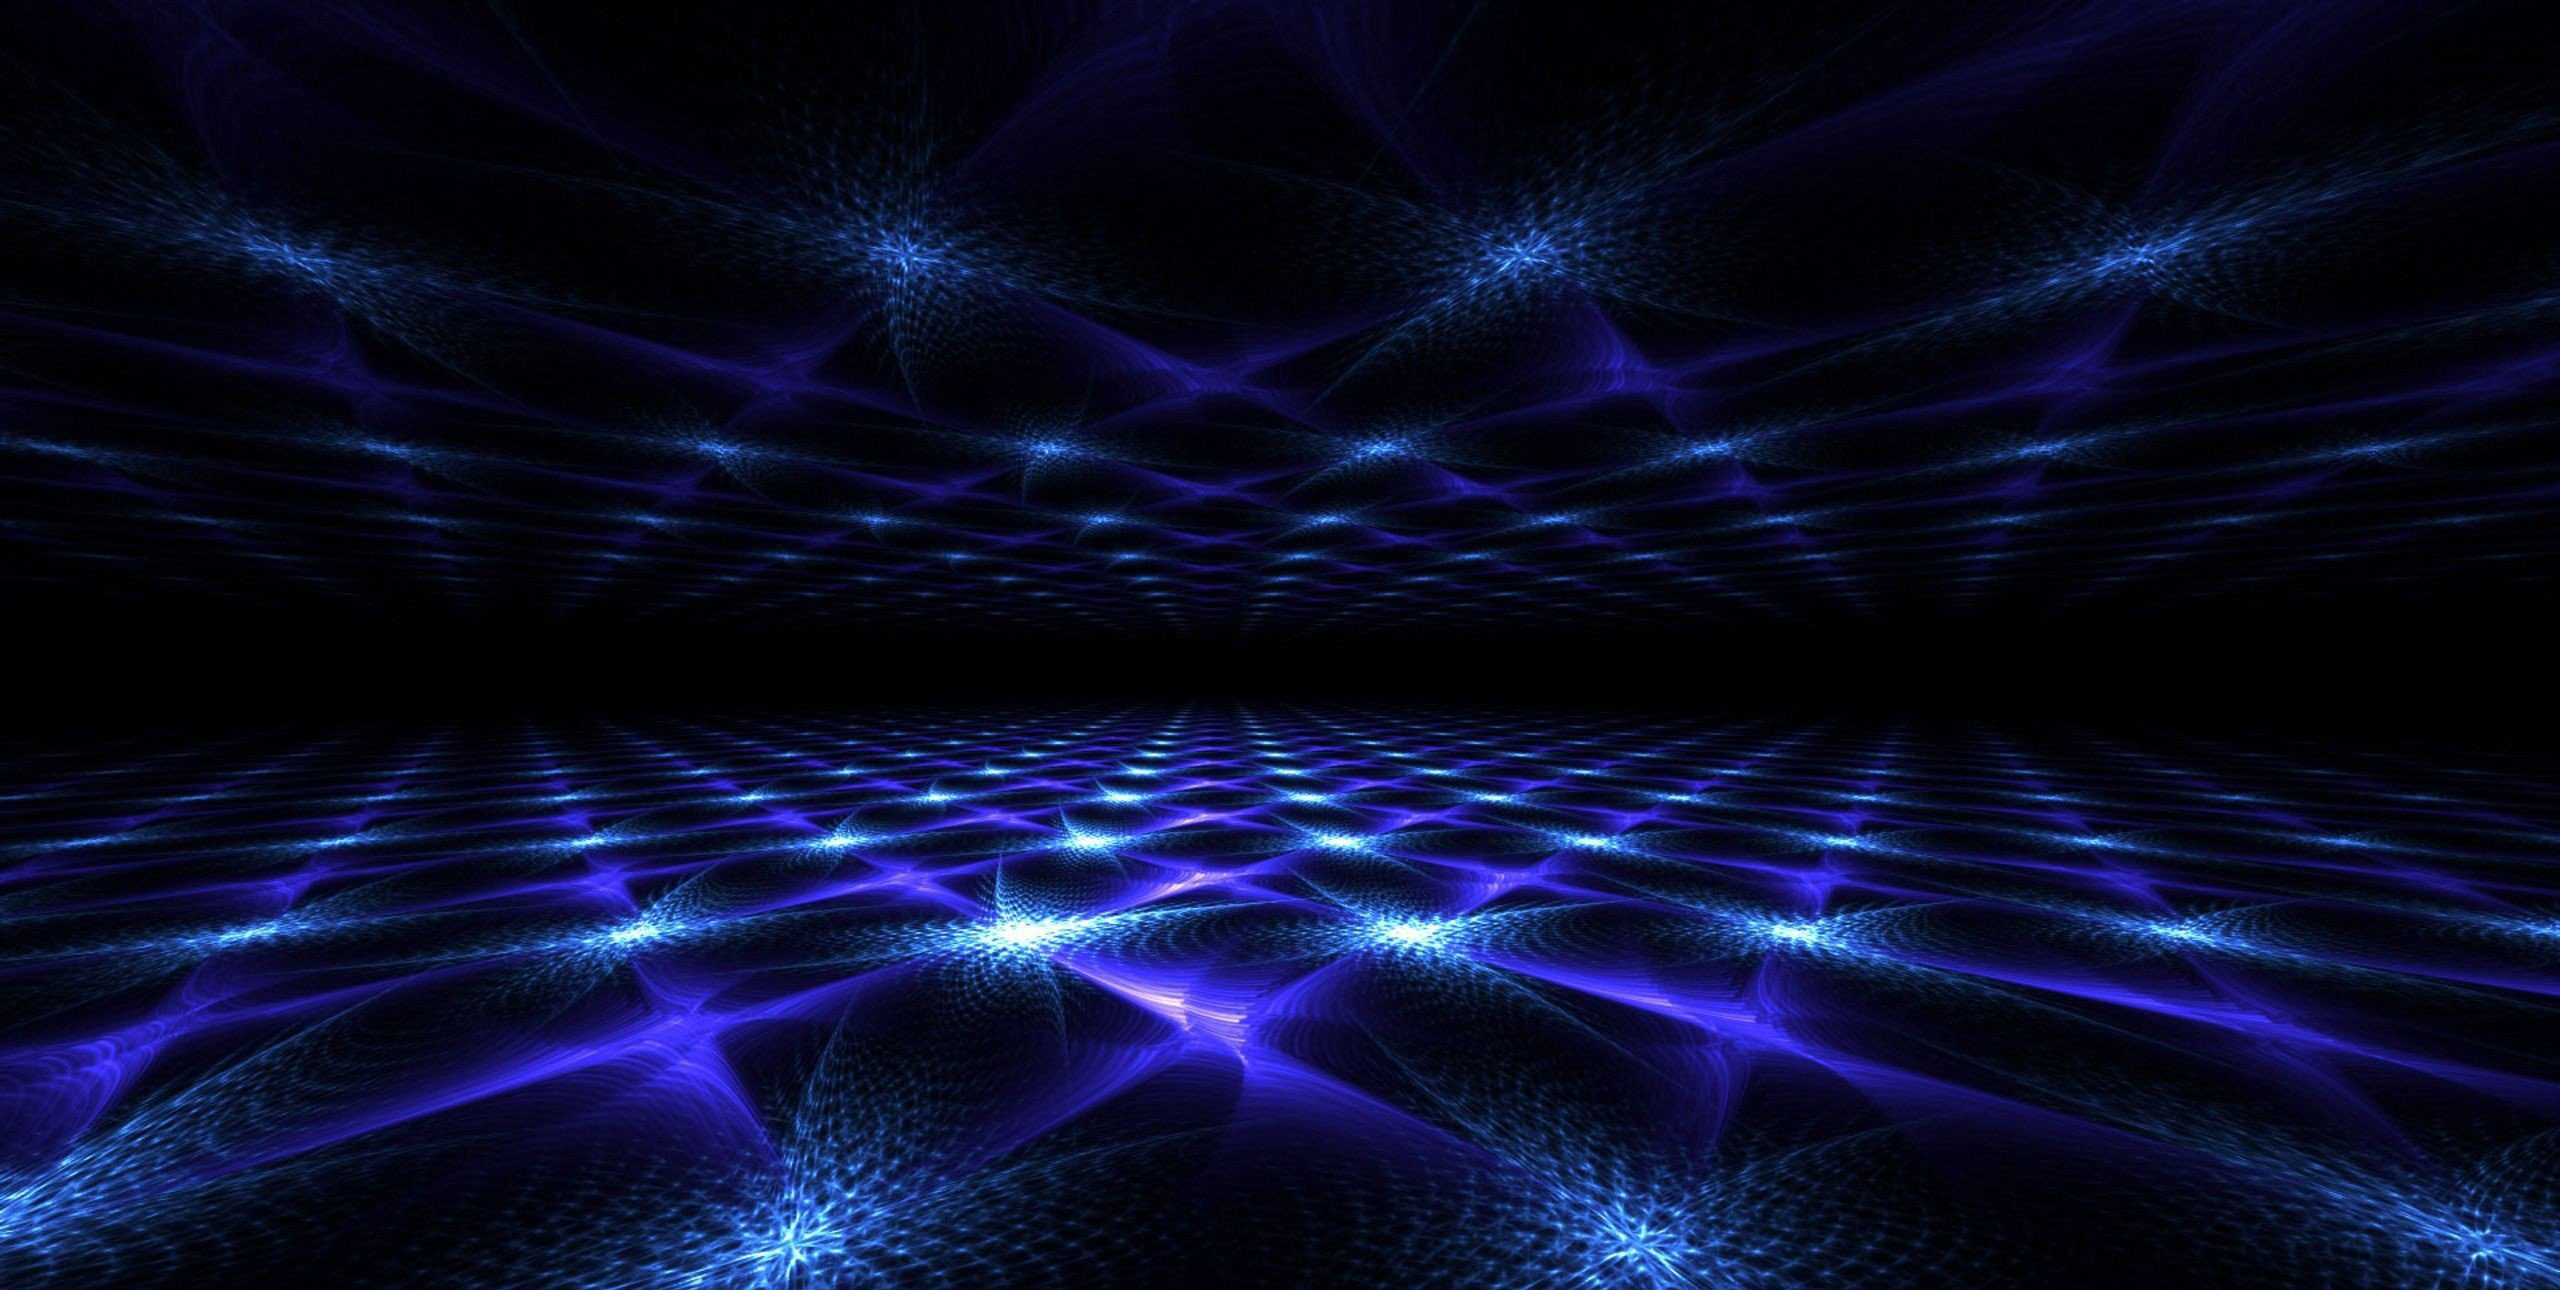
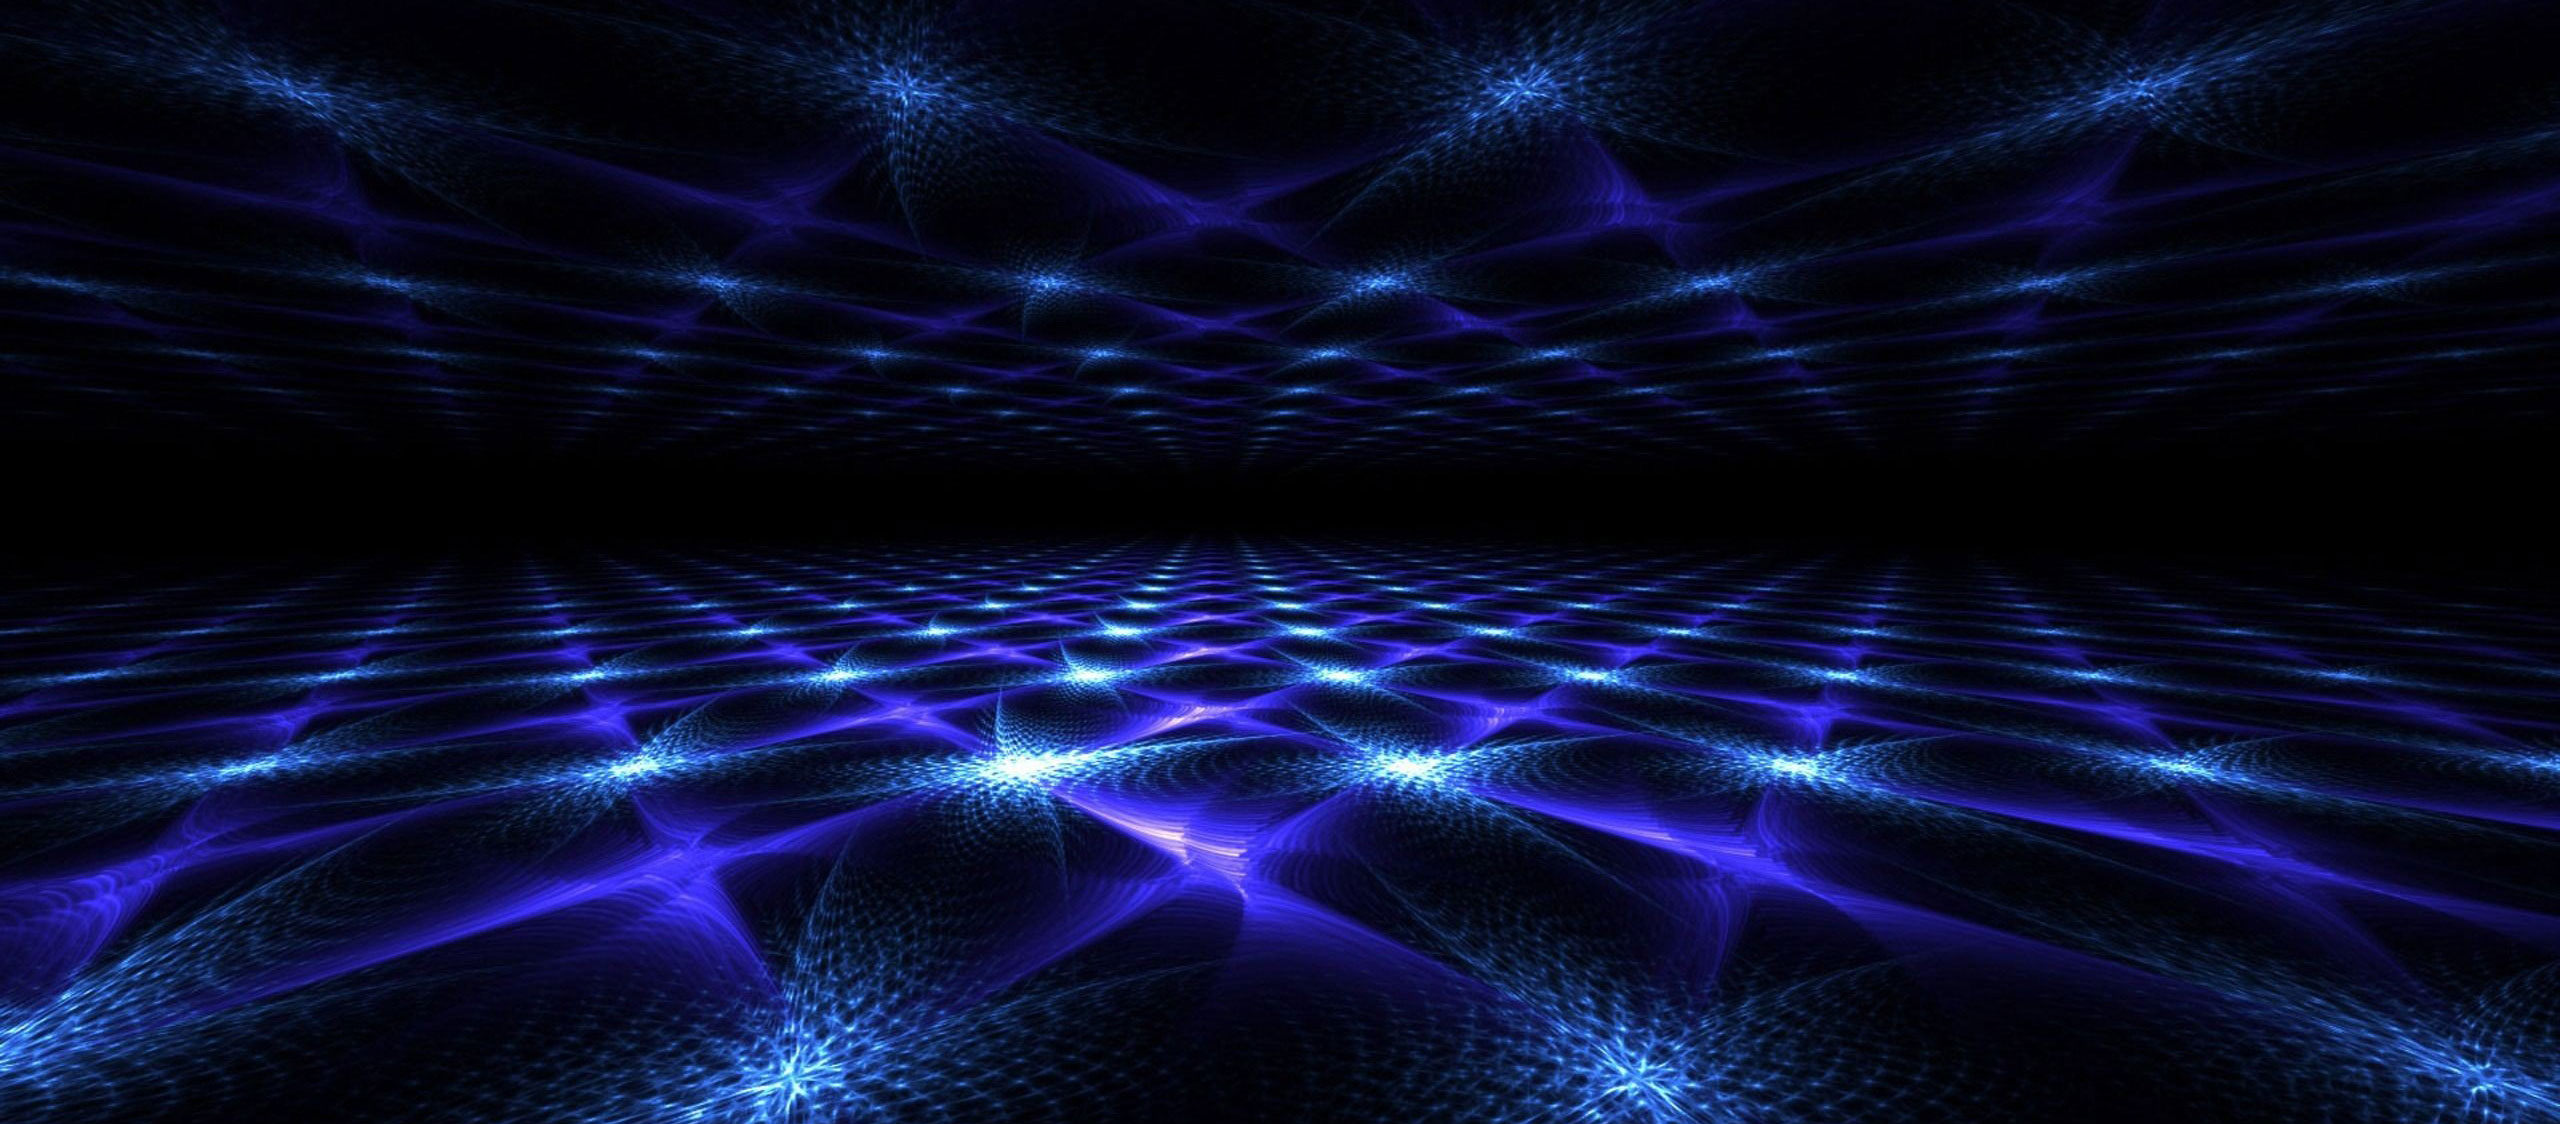
segundo commit mi fiesta

diff --git a/css/myp.css b/css/myp.css
@@ -10,7 +10,8 @@ body {
 	background: url(../img/back.jpg);
 	width: 2560px;
 	height: 1600px;
-	font-size: cover;
+	background-size: cover;
+	background-repeat: no-repeat;
 
 }
 
@@ -82,8 +83,25 @@ body {
 	position: absolute;
 }
 .spidy{
-	top: 600px;
-	left: 100px;
+	top: 300px;
+	left: 1300px;
 	position: absolute;
 }
+
+.robot{
+	top: 900px;
+	
+	position: absolute;
+}
+
+
+.brown{
+	top: 500px;
+	left: 2000px;
+	
+	position: absolute;
+}
+
+
+
 
